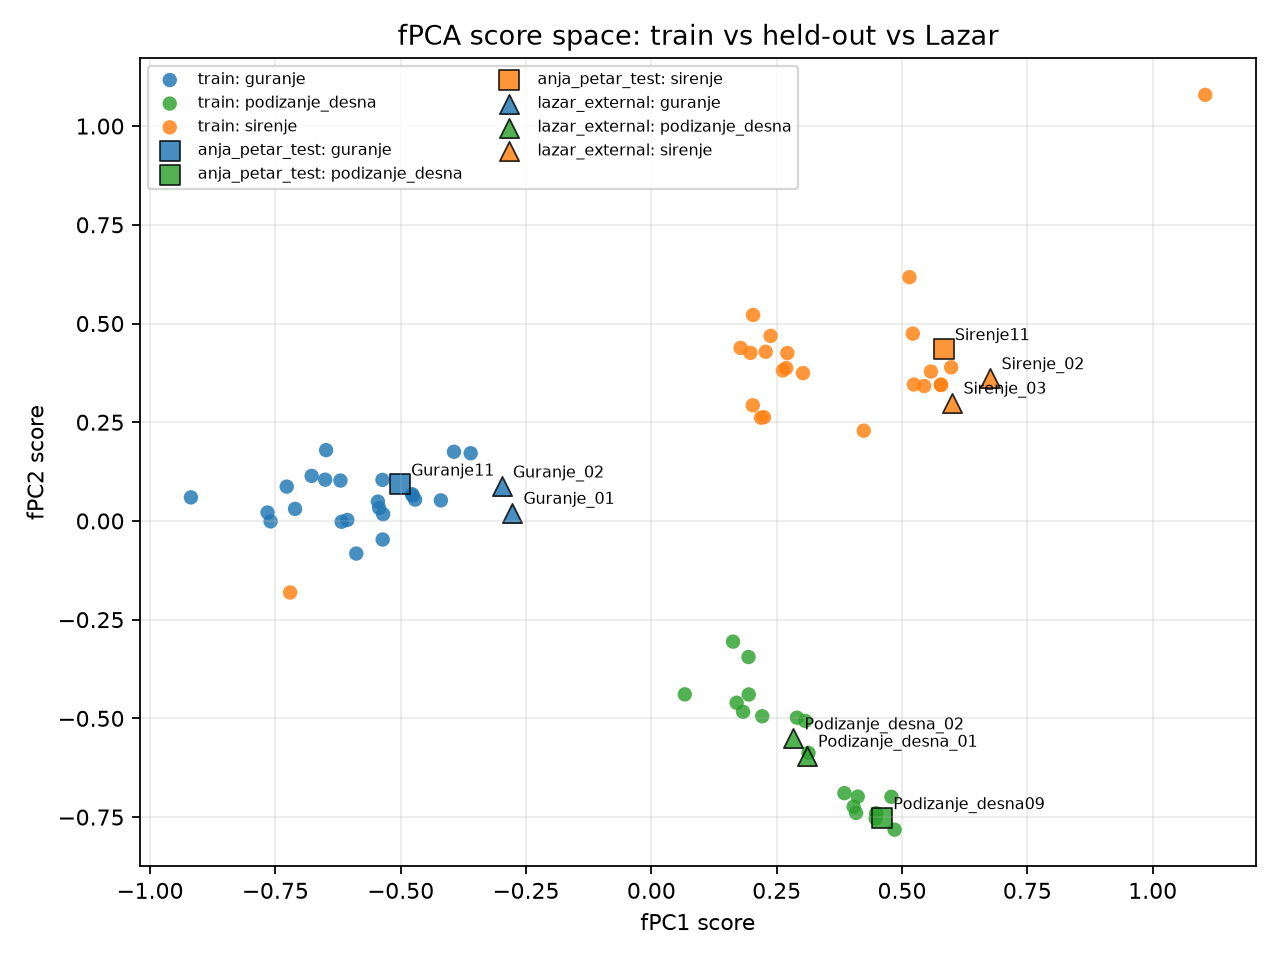
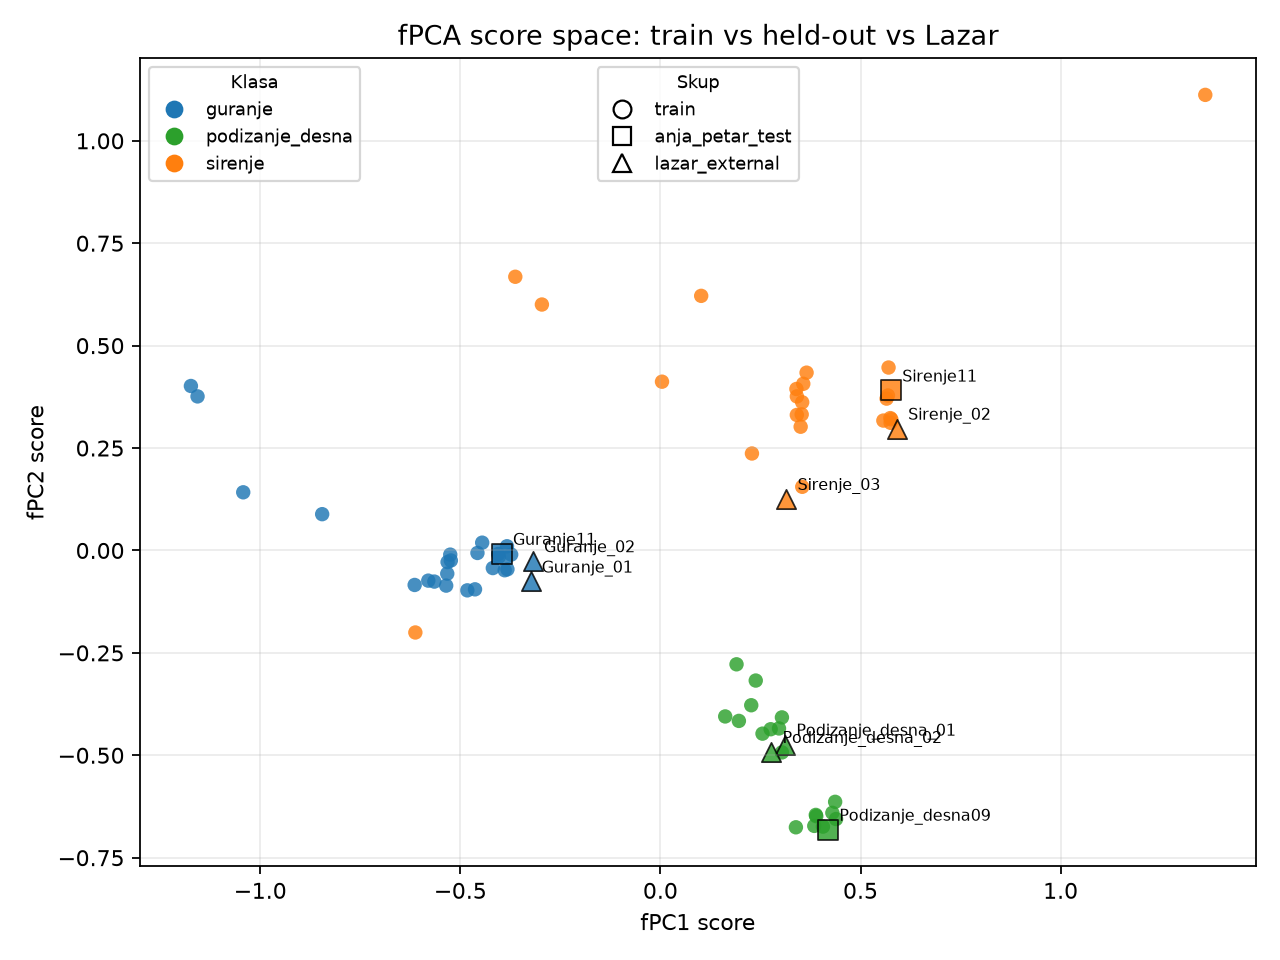
Update seminar visuals and live docs

diff --git a/scripts/generate_live_generalization_plots.py b/scripts/generate_live_generalization_plots.py
@@ -14,6 +14,7 @@ sys.path.insert(0, str(PROJECT_ROOT))
 os.environ.setdefault("MPLCONFIGDIR", str(PROJECT_ROOT / ".matplotlib-cache"))
 
 import matplotlib.pyplot as plt
+from matplotlib.lines import Line2D
 
 from config import PLOTS_DIR, RAW_DATA_DIR, create_project_directories
 from src.data_loader import load_trials
@@ -177,8 +178,8 @@ def plot_confusion(rows: list[PredictionRow], title: str, file_name: str) -> Pat
 def plot_fpca_scores(rows: list[PredictionRow]) -> Path:
     """Plot fPC1/fPC2 positions for train, held-out and Lazar trials."""
     fig, axis = plt.subplots(figsize=(8, 6))
-    for split_name, marker in SPLIT_MARKERS.items():
-        for label in CLASS_LABELS:
+    for label in CLASS_LABELS:
+        for split_name, marker in SPLIT_MARKERS.items():
             selected = [
                 row
                 for row in rows
@@ -196,7 +197,6 @@ def plot_fpca_scores(rows: list[PredictionRow]) -> Path:
                 edgecolor="black" if split_name != "train" else "none",
                 linewidth=0.8,
                 alpha=0.82,
-                label=f"{split_name}: {label}",
             )
 
     for row in rows:
@@ -214,7 +214,49 @@ def plot_fpca_scores(rows: list[PredictionRow]) -> Path:
     axis.set_xlabel("fPC1 score")
     axis.set_ylabel("fPC2 score")
     axis.grid(alpha=0.25)
-    axis.legend(loc="best", fontsize=7, ncols=2)
+
+    class_handles = [
+        Line2D(
+            [0],
+            [0],
+            marker="o",
+            color="none",
+            markerfacecolor=CLASS_COLORS[label],
+            markeredgecolor="none",
+            markersize=8,
+            label=label,
+        )
+        for label in CLASS_LABELS
+    ]
+    split_handles = [
+        Line2D(
+            [0],
+            [0],
+            marker=marker,
+            color="black",
+            markerfacecolor="white",
+            markeredgecolor="black",
+            markersize=8,
+            linestyle="none",
+            label=split_name,
+        )
+        for split_name, marker in SPLIT_MARKERS.items()
+    ]
+    first_legend = axis.legend(
+        handles=class_handles,
+        title="Klasa",
+        loc="upper left",
+        fontsize=8,
+        title_fontsize=8,
+    )
+    axis.add_artist(first_legend)
+    axis.legend(
+        handles=split_handles,
+        title="Skup",
+        loc="upper center",
+        fontsize=8,
+        title_fontsize=8,
+    )
     return finish(fig, OUTPUT_DIR / "04_fpca_score_space_generalization.png")
 
 

diff --git a/docs/live_testing.md b/docs/live_testing.md
@@ -209,10 +209,10 @@ If the triggered segment does not look confident enough, or if there is too
 little movement in it, the final prediction becomes:
 
 ```text
-Detected movement 2: label=Nepoznato, frames=280, range=3400-3679, candidate=guranje, confidence=2.225, motion=0.0 mm, reason=quiet
+Detected movement 2: label=nepoznato, frames=280, range=3400-3679, candidate=guranje, confidence=2.225, motion=0.0 mm, reason=quiet
 ```
 
-`Nepoznato` is not trained as a fourth movement class. It is a reject label used
+`nepoznato` is not trained as a fourth movement class. It is a reject label used
 when the model should avoid forcing the segment into `guranje`,
 `podizanje_desna`, or `sirenje`.
 
@@ -273,7 +273,7 @@ because the recorded trials end in the extended pose.
 Keys: **Q** or Ctrl+C to quit. SPACE is ignored in trigger mode.
 
 The live model reports both the final label and the best known-class candidate.
-For example, `fPCA=Nepoznato, candidate=guranje` means the SVM's closest known
+For example, `fPCA=nepoznato, candidate=guranje` means the SVM's closest known
 class was `guranje`, but the confidence or movement amount was below the
 accepted threshold.
 
@@ -304,7 +304,7 @@ inbound rule for `python.exe`.
 | `Loaded trials:` lower than expected | Some files failed the naming rule | Run the check in Step 3 |
 | `FileNotFoundError: live_motion_model.joblib` | `--use-saved-model` was used before training | Run Step 4 or start without `--use-saved-model` |
 | No detected movement yet | Baseline is still forming, trigger thresholds are not crossed, or packets are incomplete | Check the sender is running; use `--probe` to inspect incoming frames |
-| Prediction is `Nepoznato` | Low SVM confidence, too little movement, or a movement outside the known classes | Inspect confidence, motion thresholds, and whether the window contains the movement |
+| Prediction is `nepoznato` | Low SVM confidence, too little movement, or a movement outside the known classes | Inspect confidence, motion thresholds, and whether the window contains the movement |
 | Always predicts the same class | Segment boundaries are poor, or `--fps` does not match the CSVs (200 Hz) | Tune trigger thresholds and check `--fps` on both scripts |
 | Live and simulated predictions disagree | Model is fine, the captured segment is not | Run `simulate_live_prediction.py` on a real trial to confirm the model |
 | `Skipped N incomplete frames` | Frames missing a required object | Expected with `--drop-rate`; with real Vicon it means occlusion |

diff --git a/docs/live_pipeline.md b/docs/live_pipeline.md
@@ -28,7 +28,7 @@ The live server now uses automatic trigger segmentation instead of manual SPACE
 segmentation. That means it waits for the shared starting pose, detects movement
 start/stop, then classifies the completed segment.
 
-The live prediction can also return `Nepoznato`. This is a reject label, not a
+The live prediction can also return `nepoznato`. This is a reject label, not a
 trained movement class. It is used when the best known-class SVM confidence is
 too low or when the captured segment contains too little movement to be treated
 as one of the trained actions.
